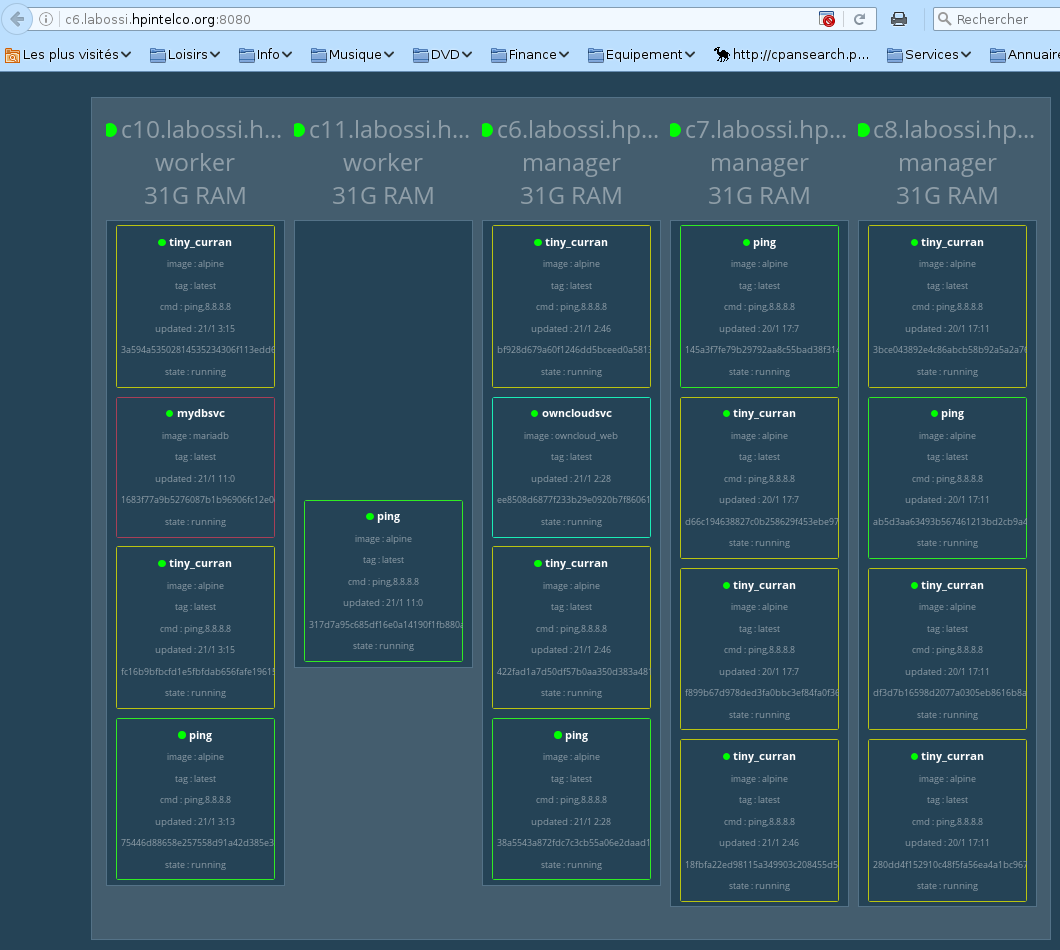
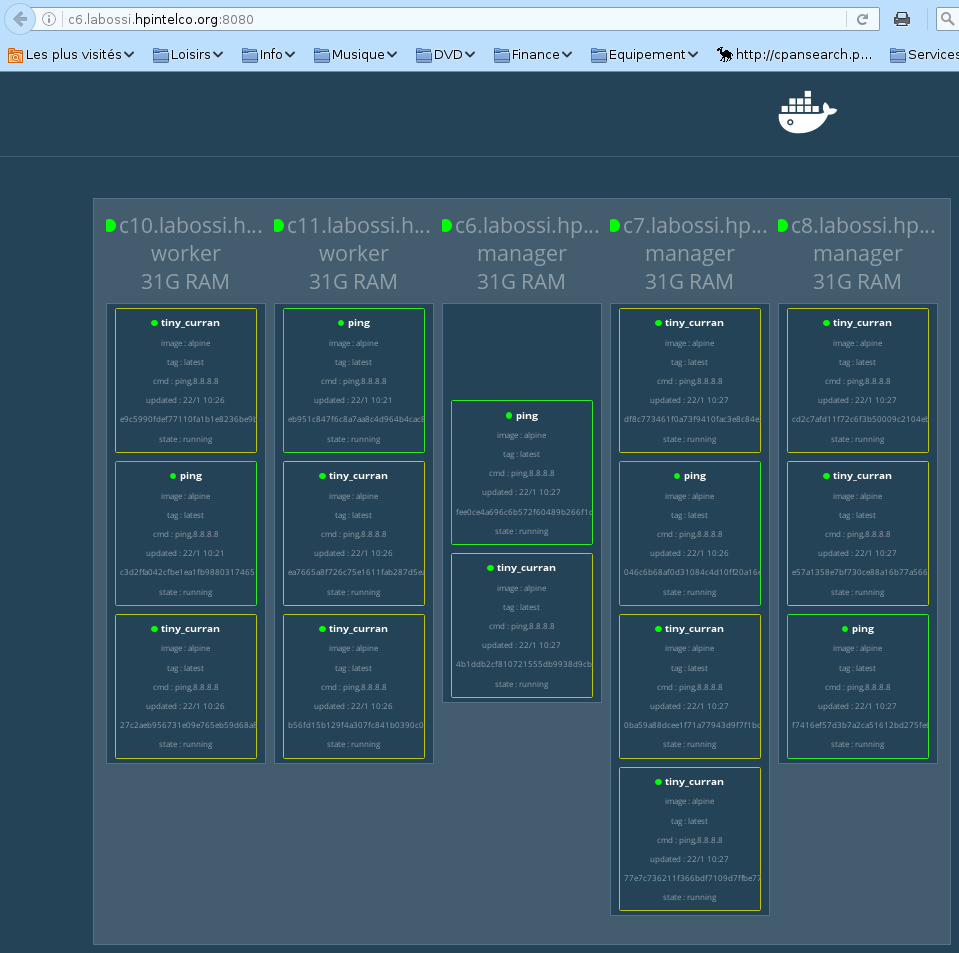
Adds details for the CNA

diff --git a/Docker/README.md b/Docker/README.md
@@ -1130,7 +1130,7 @@ And then connect your browser to it on port 8080. You should see something simil
 Now let's put on our cluster our application. Note that before version 1.13, docker-compose doesn't support the notion of service, so can't be used in swarm mode. Would be very handy, but you'll have to wait till early february/march 2017 to have that !
 Start with the owncloud_web image as a base for your service.
 
-`#` **`docker service create --name owncloudsvc -p 80:80 owncloud_web`**
+`#` **`docker service create --name owncloudsvc -p 8000:80 owncloud_web`**
 ```
 92f1q6wzr8jb5nctzu06d2cd1
 ```
@@ -1219,6 +1219,7 @@ Edit the exports file so it looks like:
 ```
 /data/db        *.labossi.hpintelco.org(rw,no_root_squash,async,insecure,no_subtree_check)
 /data/owncloud  *.labossi.hpintelco.org(rw,no_root_squash,async,insecure,no_subtree_check)
+/data/config    *.labossi.hpintelco.org(rw,no_root_squash,async,insecure,no_subtree_check)
 ```
 `#` **`exportfs -a`**
 `#` **`systemctl start nfs`**
@@ -1230,7 +1231,7 @@ Now you can create a Docker volume that will be used by the containers launched 
 `#` **`docker volume ls`**
 
 BTW, you can see that Docker already transparently created many more volumes for you.
-Note thtat you have to do it on all the engines of ryour Swarm cluster for this method to work.
+Note thtat you have to do it on all the engines of your Swarm cluster for this method to work.
 
 Now you can start mariadb as a service using the volume just created:
 <!--
@@ -1253,30 +1254,145 @@ MariaDB hint:
 `MariaDB [(owncloud)]>` **`show tables;`**
 `MariaDB [(owncloud)]>` **`quit;`**
 
-Once all this is solved, you can try dealing with the web frontend. Adopt a similar approach (NFS volume and service).
+Once all this is solved, you can try dealing with the web frontend. Adopt a similar approach (NFS volume and service). Check that the communication between owncloud and the DB works fine.
 
-<!--
-Hint: 
+You may be affected as I as by remaining bugs such as https://github.com/docker/docker/issues/20486 or https://github.com/docker/docker/issues/25981, especially mixing tests with docker-compose and swarm. For me, the only way to turn around them was to reboot the full cluster completely.
+
+Examples: 
 `#` **`for i in c6 c7 c8 c10 c11; do ssh $i docker volume create --driver local --opt type=nfs --opt o=addr=10.11.51.136,rw --opt device=:/data/owncloud --name ownvol ; done`**
 `#` **`for i in c6 c7 c8 c10 c11; do ssh $i docker volume create --driver local --opt type=nfs --opt o=addr=10.11.51.136,rw --opt device=:/data/config --name cfgvol ; done`**
-`#` **`docker service create --name=myownsvc --mount=type=volume,volume-driver=local,src=ownvol,dst=/data/owncloud --mount=type=volume,volume-driver=local,src=cfgvol,dst=/data/config -p 80:80 lab7-2.labossi.hpintelco.org:5000/owncloud_web`**
+`#` **`docker service create --name=myownsvc --mount=type=volume,volume-driver=local,src=ownvol,dst=/data/owncloud --mount=type=volume,volume-driver=local,src=cfgvol,dst=/data/config -p 8000:80 lab7-2.labossi.hpintelco.org:5000/owncloud_web`**
+<!--
+Remains an issue:
+An exception occurred while executing 'SELECT "configvalue", "appid" FROM "oc_appconfig" WHERE "configkey" = ?' with params ["enabled"]: SQLSTATE[HY000]: General error: 1 no such table: oc_appconfig
+while doing 
+mysql> SELECT configvalue,appid FROM oc_appconfig WHERE configkey="enabled";
++-------------+-------------------+
+| configvalue | appid             |
++-------------+-------------------+
+| yes         | activity          |
+| yes         | calendar          |
+| yes         | contacts          |
+| yes         | documents         |
+| yes         | files             |
+| yes         | files_pdfviewer   |
+| yes         | files_sharing     |
+| yes         | files_texteditor  |
+| yes         | files_trashbin    |
+| yes         | files_versions    |
+| yes         | files_videoviewer |
+| yes         | firstrunwizard    |
+| yes         | gallery           |
+| yes         | search_lucene     |
+| yes         | templateeditor    |
+| yes         | updater           |
++-------------+-------------------+
+16 rows in set (0.00 sec)
+
+mysql> quit
+
+inside the container works :-(
+and compose works as well.
 -->
 
-Scaling out such a stateful application is not really interesting. Of course, we could host many owncloud users by multiplying the solution just adopted for many users and spread the laod across the Swarm cluster.
+Observe what happens when you restart the docker service on a node hosting one of the 2 services.
 
-Now we'll see the adequation of Docker Swarm and Cloud Native application
+We can scale out such a stateful application (while less interesting than a cloud native one) with many owncloud instances to support many users and spread the load across the Swarm cluster.
 
-# Deploy a cloud native appication.
+PLEASE, stop your services to avoid ports conflicts with the next part.
 
-TBC providing more details in next PRs.
+`#` **`docker service rm mydbsvc`**
+`#` **`docker service rm myownsvc`**
 
-1.Clone the github repo
-2.Run the application locally using the compose file
-3.Upload all the apps image to the registry
-4.Run the script deploy the application.
+Now we'll see the adequation of Docker Swarm and Cloud Native applications.
+
+# Deploy a cloud native application.
+
+Let's explain first the application and its goal.
+
+## Objectives
+
+The overall goal of this part is to realize a promotional lottery for an e-commerce site.
+All the software pieces are provided to you, and you'll "just" have to deal with a partial containerzation of it.
+
+As the setup takes some time, we'll start with the instructions and thenyou'll have time to read the explanations.
+
+First have access to the application we developped for this.
+
+`#` **`yum install -y git`**
+`#` **`git clone https://github.com/bcornec/openstack_lab.git`**
+`#` **`git checkout cloudnative`**
+`#` **`cd cloud_native_app`**
+
+As you can see in the openstack_lab directory created, the same application can be used for a Docker or an OpenStack usage (or combining them).
+The application is still a WIP, so don't worry with all the additional files and dirs for now. Upstream is at https://github.com/uggla/openstack_lab.git
+
+We need first to run the application locally using the compose file, in order to create all the Docker images and to upload them into the registry.
+
+`#` **`docker-compose up -d`**
+
+Drink a coffee, it's well deserved at that point, and that composition takes a bit of time. Or stay looking at it to observe closely the magic of Docker automation ;-)
+Please start reading the following explanations in or to understadn what we're building for you here.
+
+A customer of a big e-commerce site receives a promotional email with a link to earn a price if they are lucky. 
+The application detects whether the player already played or not, and whether he won already or not. 
+Each status is kept with the date when it was performed. The application provides a button allowing the customer to play, in case he didn't already, and the result of the computation which happens behind the scene is given back to the customer: it is the nature of the article he has won, and the corresponding image is displayed in the interface. Mails are sent to admins when a winner is found.
+
+That application is made of one Web page with 5 parts/micro-services: I, S, B, W and P:
+  - I(dentification) service: receives http request from customer (link with customer ID) and look for it into the DB.
+  - S(tatus) service: detect whether customer already played or not, status stored in the DB. It is using a messages bus to buffer requests.
+  - B(utton) service: button widget allowing the customer to play. Only when not already done.
+  - W(orker) service that computes whether the customer won or not (slow service on purpose with a REST API interface), called by B. If won, post an image representing what has been won into an object store with customer ID. Then post by e-mail via an external provider a message to admins (using a messages bus). Button is gray if the customer has already played. W and the DB are on a separate private network.
+  - P(icture) service: Look into the object store with customer ID to display the image of the customer's price, empty if no image.
+
+Each part of the web page is implemented as a micro-service. So the application supports nicely the death of any one of the 5 micro-services. The page is still displayed anyway, printing N/A when a micro-service is unavailable. In case of insufficient resources (as with the slow W micreo-service), we will look at how to scale that application.
+
+Once the docker-compose is done, you'll have to tag all images and push them into the registry. As docker-compose doesn't support services in this version yet, we've made a script to ease the creation of the tags, pushing the images into the registry and creating the services for you.
+
+Please have a look at the `docker_services.sh` script and adapt what needs to be changed for your environment at the start.
+
+Before launching the script, stop all the containers lanuched with the docker-compose step.
+
+Once done, you can run the script to deploy the application using Docker services
+
+`#` **`./docker_services.sh`**
+```
+ID            NAME         REPLICAS  IMAGE                                                 COMMAND
+1empjc9o6wwu  w            1/1       lab7-2.labossi.hpintelco.org:5000/cloudnativeapp_w    
+1z53fru1vjr6  i            1/1       lab7-2.labossi.hpintelco.org:5000/cloudnativeapp_i    
+3gasrkzgpp0w  b            1/1       lab7-2.labossi.hpintelco.org:5000/cloudnativeapp_b    
+3sc3qexaixkl  redis        1/1       redis                                                 
+4c5i32juwnyh  myownsvc     1/1       lab7-2.labossi.hpintelco.org:5000/owncloud_web        
+5yl1168mm6h4  w2           1/1       lab7-2.labossi.hpintelco.org:5000/cloudnativeapp_w2   
+6leldkqf1zth  ping         global    alpine                                                ping 8.8.8.8
+79jwqr43zyt2  web          1/1       lab7-2.labossi.hpintelco.org:5000/cloudnativeapp_web  
+7hygz6g0lbyq  db           1/1       lab7-2.labossi.hpintelco.org:5000/cloudnativeapp_db   
+9i4ogenk03ax  rabbit       1/1       rabbitmq:3-management                                 
+ag12vg6ts417  tiny_curran  10/10     alpine                                                ping 8.8.8.8
+ajcrqc6nykn8  s            1/1       lab7-2.labossi.hpintelco.org:5000/cloudnativeapp_s    
+cn81a9a5j8yi  w1           1/1       lab7-2.labossi.hpintelco.org:5000/cloudnativeapp_w1   
+e6c6ypgcxdy2  p            1/1       lab7-2.labossi.hpintelco.org:5000/cloudnativeapp_p
+```
+
+In order to use the application you'll now have to connect to http://c6.labossi.hpintelco.org/
+
+You should see a messsage in your browser saying:
+```
+Please provide a user id !
+```
+
+So now to use the application, you have to provide the id of the user who is playing to see his price.
+Browse http://c6.labossi.hpintelco.org/index.html?id=1
+
+Check the availability of the application by restarting a docker daemon on a host running one of the containers the application is using.
+Check the micro-service behaviour by stopping the i micro-service, and then the p micro-service. Reload the Web page each time to see what happens.
+
+Try to make more connections. What is the problem encountered.
+Which micro-service is causing the issue.
+Scale that micro-service to solve the problem.
+
 5.Update the config.js file to allow access to the public ip.
-6.Eventually update swift config to recach swift.
-
+6.Eventually update swift config to reach swift.
 
 This is the end of this lab for now, we hope you enjoyed it.
 
